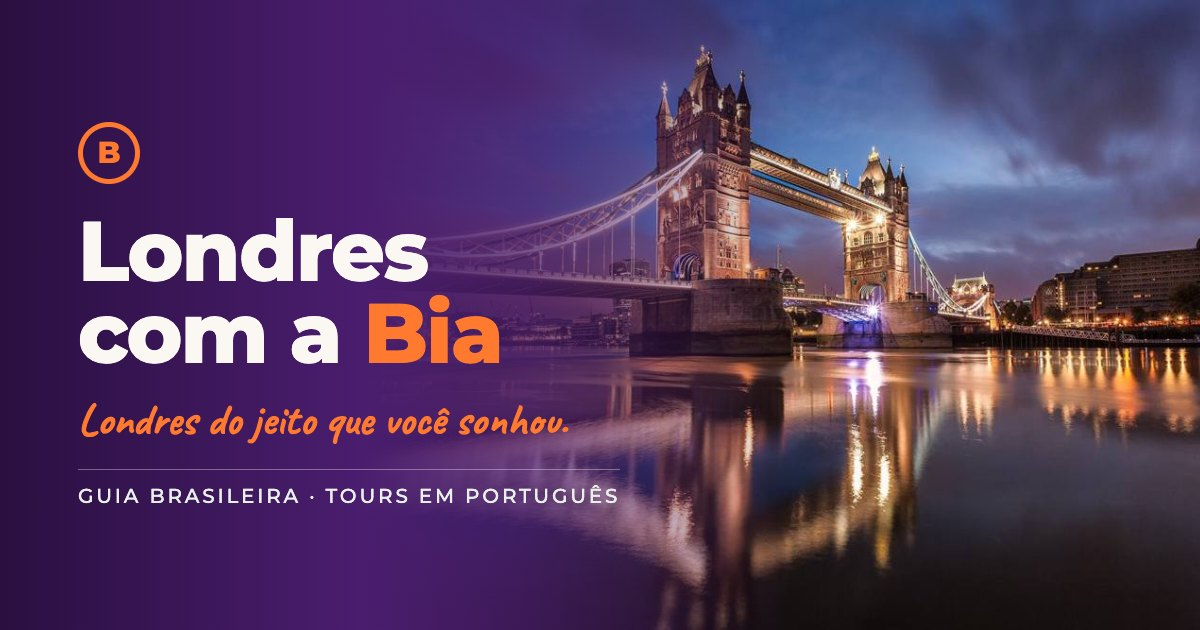
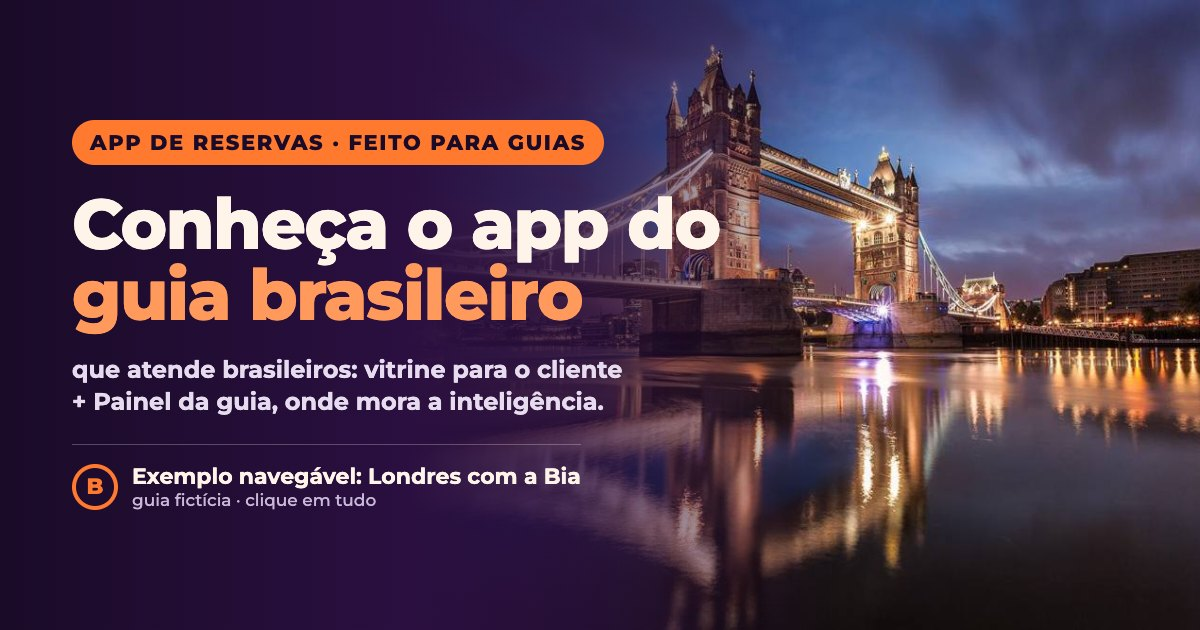
londres: capa do link fala com o guia — 'Conheça o app do guia brasileiro', exemplo: Londres com a Bia

diff --git a/londres/index.html b/londres/index.html
@@ -8,15 +8,15 @@
 <meta name="description" content="Demo com uma guia fictícia em Londres: tours, agenda, sinal que trava a data, painel, assistente e atendimento.">
 <meta name="theme-color" content="#4A1D6E">
 <meta property="og:type" content="website">
-<meta property="og:title" content="Londres com a Bia — app de exemplo">
-<meta property="og:description" content="Um app de reservas completo, com uma guia fictícia em Londres: passeios, agenda, sinal que trava a data, painel e assistente. Clique em tudo.">
-<meta property="og:image" content="https://guia.eugeniofim.com/londres/og.jpg?v=3">
-<meta property="og:image:secure_url" content="https://guia.eugeniofim.com/londres/og.jpg?v=3">
+<meta property="og:title" content="Conheça o app do guia brasileiro que atende brasileiros">
+<meta property="og:description" content="Protótipo navegável: a vitrine que o seu cliente vê e o Painel da guia, onde mora a inteligência. Exemplo com uma guia fictícia em Londres — clique em tudo.">
+<meta property="og:image" content="https://guia.eugeniofim.com/londres/og.jpg?v=4">
+<meta property="og:image:secure_url" content="https://guia.eugeniofim.com/londres/og.jpg?v=4">
 <meta property="og:image:type" content="image/jpeg">
 <meta property="og:url" content="https://guia.eugeniofim.com/londres/">
 <meta property="og:image:width" content="1200"><meta property="og:image:height" content="630">
 <meta name="twitter:card" content="summary_large_image">
-<meta name="twitter:image" content="https://guia.eugeniofim.com/londres/og.jpg?v=3">
+<meta name="twitter:image" content="https://guia.eugeniofim.com/londres/og.jpg?v=4">
 <!-- fontes do produto (Google Fonts). Num app de cliente na Europa, trocar por fontes dentro do app. -->
 <link rel="preconnect" href="https://fonts.googleapis.com">
 <link rel="preconnect" href="https://fonts.gstatic.com" crossorigin>

diff --git a/londres/painel/index.html b/londres/painel/index.html
@@ -3,10 +3,10 @@
 <meta name="viewport" content="width=device-width, initial-scale=1">
 <title>Londres com a Bia — o painel do guia</title>
 <meta property="og:type" content="website">
-<meta property="og:title" content="Londres com a Bia — veja o app por dentro">
-<meta property="og:description" content="O painel do guia, funcionando: reservas, quem pagou, agenda, clientes e o assistente que faz por você. Demonstração com uma guia fictícia.">
-<meta property="og:image" content="https://guia.eugeniofim.com/londres/og.jpg?v=3">
-<meta property="og:image:secure_url" content="https://guia.eugeniofim.com/londres/og.jpg?v=3">
+<meta property="og:title" content="Conheça o app do guia brasileiro que atende brasileiros">
+<meta property="og:description" content="Protótipo navegável: a vitrine que o seu cliente vê e o Painel da guia, onde mora a inteligência. Exemplo com uma guia fictícia em Londres — clique em tudo.">
+<meta property="og:image" content="https://guia.eugeniofim.com/londres/og.jpg?v=4">
+<meta property="og:image:secure_url" content="https://guia.eugeniofim.com/londres/og.jpg?v=4">
 <meta property="og:image:type" content="image/jpeg">
 <meta property="og:image:width" content="1200"><meta property="og:image:height" content="630">
 <meta property="og:url" content="https://guia.eugeniofim.com/londres/painel/">
